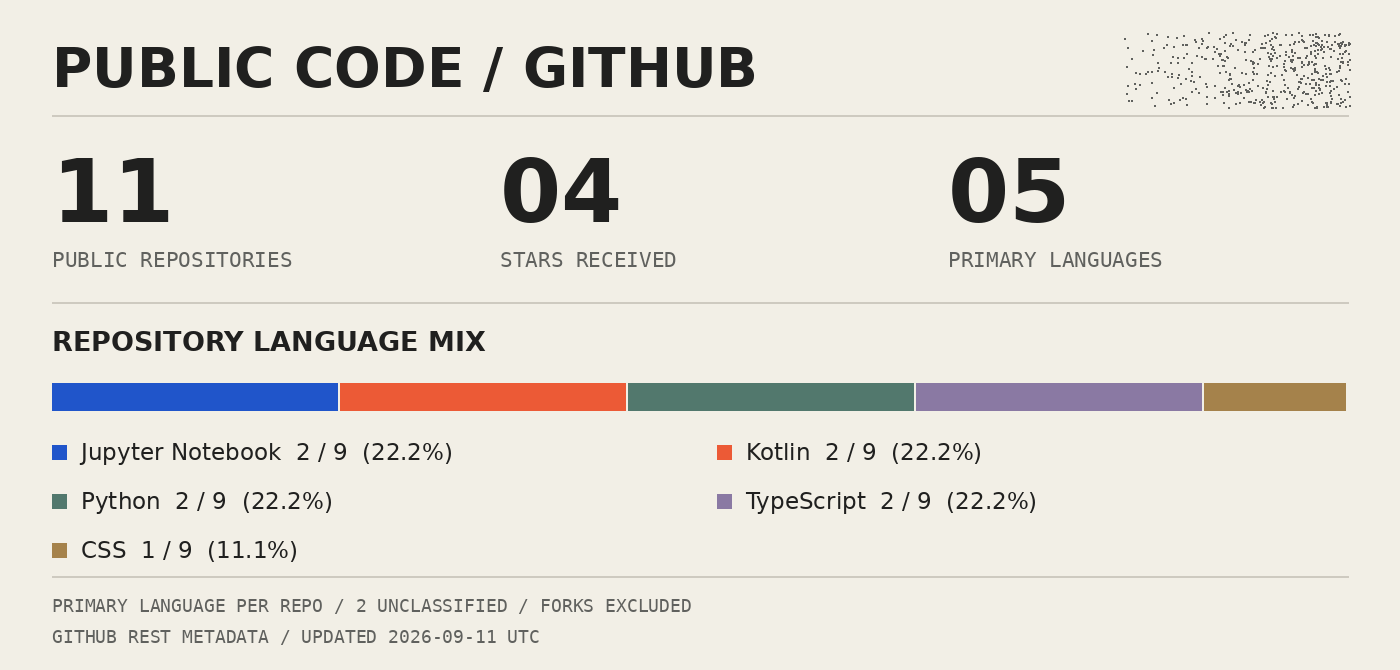
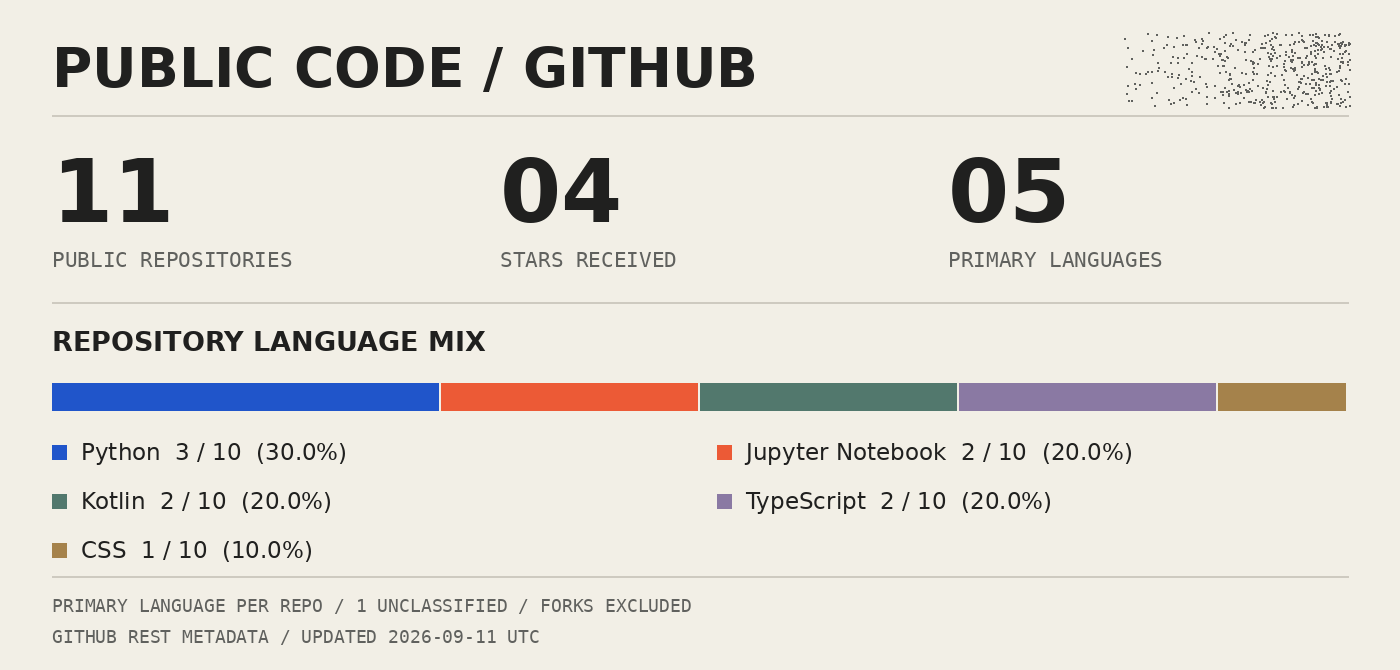
Refresh public GitHub stats

diff --git a/README.md b/README.md
@@ -392,12 +392,12 @@ Updated **2026-09-11 UTC** · **11 public repositories** · **4 stars received**
 
 | Primary language | Repositories |
 | :--- | ---: |
+| Python | 3 |
 | Jupyter Notebook | 2 |
 | Kotlin | 2 |
-| Python | 2 |
 | TypeScript | 2 |
 | CSS | 1 |
-| Not classified | 2 |
+| Not classified | 1 |
 
 Language proportions count repositories with a GitHub-assigned primary language. They do not measure coding time, language bytes, or proficiency. Public owned repositories are included across the account; forks and private repositories are excluded.
 
